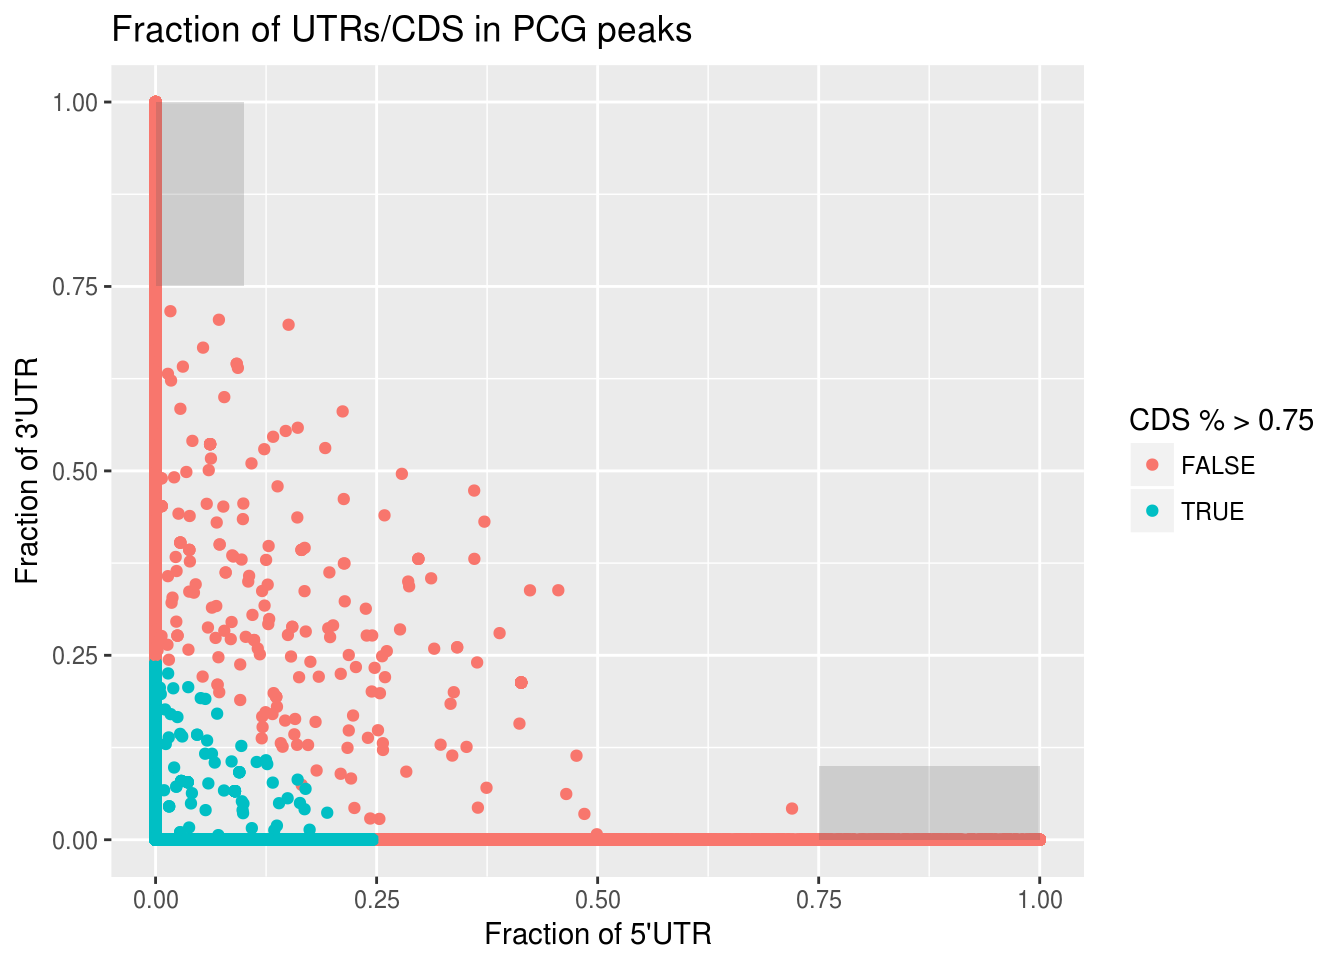
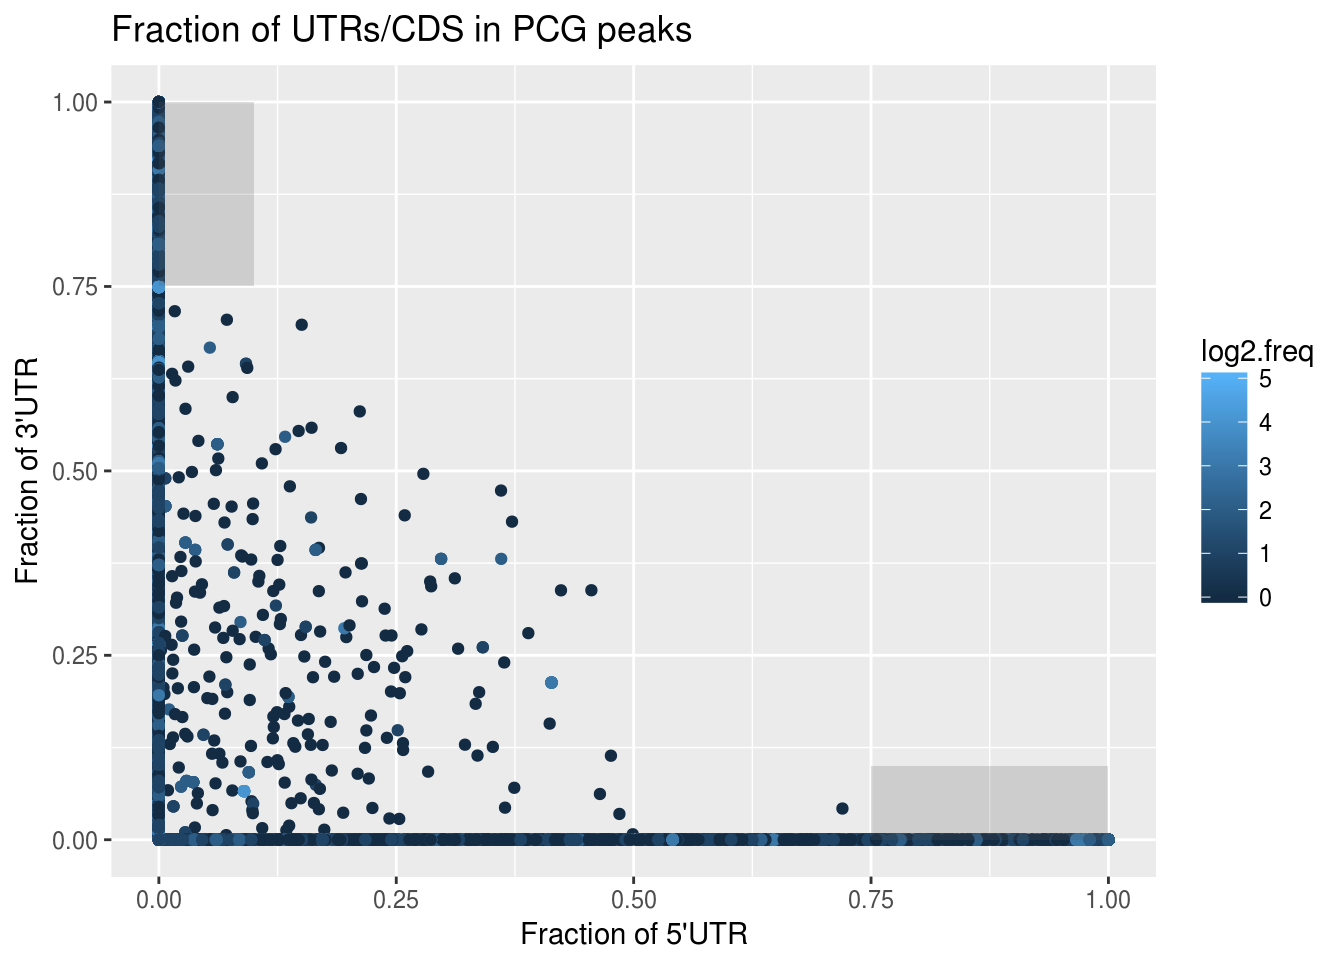
updated

diff --git a/docs/transcript_annotation.metApeakFisher_joint_peaks_18lcls.html b/docs/transcript_annotation.metApeakFisher_joint_peaks_18lcls.html
@@ -297,7 +297,7 @@ div.tocify {
 
 <h1 class="title toc-ignore">Annotating metApeakFisher_joint_peaks_18lcls</h1>
 <h4 class="author"><em>Yanyu Liang</em></h4>
-<h4 class="date"><em>27 September, 2017</em></h4>
+<h4 class="date"><em>29 September, 2017</em></h4>
 
 </div>
 
@@ -314,6 +314,7 @@ library(dplyr)</code></pre>
 <pre><code>## The following objects are masked from &#39;package:base&#39;:
 ## 
 ##     intersect, setdiff, setequal, union</code></pre>
+<pre class="r"><code>source(&#39;../code/utilities/transcript_annotation_rlib.R&#39;)</code></pre>
 </div>
 <div id="load-data" class="section level1">
 <h1><span class="header-section-number">2</span> Load Data</h1>
@@ -329,7 +330,7 @@ if(length(unique(mydat.valid$peak.id)) != length(unique(mydat$peak.id)))  {  # T
   print(&#39;warning: Some peaks do NOT locate comppletely in transcript. They are: &#39;)
   peaks.all &lt;- unique(mydat$peak.id)
   print(peaks.all[!peaks.all %in% mydat.valid$peak.id])
-}   </code></pre>
+}</code></pre>
 <pre><code>## [1] &quot;warning: Some peaks do NOT locate comppletely in transcript. They are: &quot;
 ##   [1] chr1 1615464 1615894 MIB2 2 169,30, 0,400                                                                         
 ##   [2] chr1 1616092 1623671 MIB2 3 8,107,283, 0,415,7296                                                                 
@@ -805,8 +806,9 @@ if(length(unique(mydat.valid$peak.id)) != length(unique(mydat$peak.id)))  {  # T
 </div>
 <div id="number-of-valid-transcripts-per-peak" class="section level1">
 <h1><span class="header-section-number">4</span> Number of valid transcripts per peak</h1>
-<pre class="r"><code>hit &lt;- mydat.valid$peak.id
-valid.count &lt;- data.frame(table(hit))
+<pre class="r"><code>output &lt;- countFreq(mydat.valid)
+mydat.valid.count &lt;- output$df
+valid.count &lt;- output$count
 ggplot(valid.count) + geom_histogram(aes(x = Freq), binwidth = 1) + ggtitle(&#39;# of valid transcript per peak&#39;) + scale_y_log10()</code></pre>
 <pre><code>## Warning: Transformation introduced infinite values in continuous y-axis</code></pre>
 <pre><code>## Warning: Removed 30 rows containing missing values (geom_bar).</code></pre>
@@ -814,32 +816,68 @@ ggplot(valid.count) + geom_histogram(aes(x = Freq), binwidth = 1) + ggtitle(&#39
 </div>
 <div id="do-they-locate-in-exon" class="section level1">
 <h1><span class="header-section-number">5</span> Do they locate in exon?</h1>
-<pre class="r"><code>ggplot(mydat.valid) + geom_point(aes(x = size, y = exon)) +
+<pre class="r"><code>ggplot(mydat.valid.count) + geom_jitter(aes(x = size, y = exon, color = log2.freq), width = 200) +
   geom_abline(slope = 1, intercept = 0) +
-  ggtitle(&#39;Peak size versus the size of annotated exon&#39;)</code></pre>
+  ggtitle(&#39;Peak size versus the size of annotated exon&#39;) +
+  scale_color_gradient2(low = &#39;blue&#39;, mid = &#39;white&#39;, high = &#39;red&#39;, midpoint = 2)</code></pre>
 <p><img src="transcript_annotation.metApeakFisher_joint_peaks_18lcls_files/figure-html/unnamed-chunk-5-1.png" width="672" /></p>
 </div>
 <div id="are-they-protein-coding-genes-pcgs" class="section level1">
 <h1><span class="header-section-number">6</span> Are they protein coding genes (PCGs)?</h1>
-<pre class="r"><code>ggplot(mydat.valid) +
-  geom_point(aes(x = exon, y = CDS + fiveUTR + threeUTR)) + geom_abline(slope = 1, intercept = 0) +
-  ggtitle(&#39;Annotated exon versus CDS + UTRs&#39;) + labs(y = &#39;CDS + UTRs&#39;)</code></pre>
+<pre class="r"><code>ggplot(mydat.valid.count) +
+  geom_jitter(aes(x = exon, y = CDS + fiveUTR + threeUTR, color = log2.freq), width = 200) + geom_abline(slope = 1, intercept = 0) +
+  ggtitle(&#39;Annotated exon versus CDS + UTRs&#39;) + labs(y = &#39;CDS + UTRs&#39;) +
+  scale_color_gradient2(low = &#39;blue&#39;, mid = &#39;white&#39;, high = &#39;red&#39;, midpoint = 2)</code></pre>
 <p><img src="transcript_annotation.metApeakFisher_joint_peaks_18lcls_files/figure-html/unnamed-chunk-6-1.png" width="672" /></p>
 </div>
 <div id="where-do-pcg-peaks-locate" class="section level1">
 <h1><span class="header-section-number">7</span> Where do PCG peaks locate?</h1>
 <pre class="r"><code>mydat.pcg &lt;- mydat.valid %&gt;%
   filter(CDS + threeUTR + fiveUTR != 0)
-ggplot(mydat.pcg) +
-  geom_point(aes(x = fiveUTR / size, y = threeUTR / size, color = CDS / size &gt; 0.75)) +
+output &lt;- countFreq(mydat.pcg)
+mydat.pcg.count &lt;- output$df
+ggplot(mydat.pcg.count) +
+  geom_jitter(aes(x = fiveUTR / size, y = threeUTR / size, color = log2.freq)) +
   # scale_color_gradient2(low = &#39;blue&#39;, mid = &#39;white&#39;, high = &#39;red&#39;, midpoint = 0.75,  limits=c(0, 1)) +
   ggtitle(&#39;Fraction of UTRs/CDS in PCG peaks&#39;) +
-  labs(x = &#39;Fraction of 5\&#39;UTR&#39;, y = &#39;Fraction of 3\&#39;UTR&#39;, color = &#39;CDS % &gt; 0.75&#39;) +
+  labs(x = &#39;Fraction of 5\&#39;UTR&#39;, y = &#39;Fraction of 3\&#39;UTR&#39;) +
   annotate(&quot;rect&quot;, xmin = 0.75, xmax = 1, ymin = 0, ymax = 0.1,
   alpha = .2) +
   annotate(&quot;rect&quot;, xmin = 0, xmax = 0.1, ymin = 0.75, ymax = 1,
   alpha = .2)</code></pre>
 <p><img src="transcript_annotation.metApeakFisher_joint_peaks_18lcls_files/figure-html/unnamed-chunk-7-1.png" width="672" /></p>
+</div>
+<div id="inconsistency-among-transcript-annotations" class="section level1">
+<h1><span class="header-section-number">8</span> Inconsistency among transcript annotations</h1>
+<pre class="r"><code>mydat.pcg.dist &lt;- mydat.pcg %&gt;%
+  group_by(peak.id) %&gt;%
+  summarise(distance = sd(fiveUTR/exon) + sd(threeUTR/exon)) %&gt;%
+  ungroup()
+ggplot(mydat.pcg.dist) +
+  geom_histogram(aes(x = distance)) +
+  scale_y_log10() +
+  ggtitle(&#39;total deviation of annotation 
+ in single peak 
+ within multiple transcripts&#39;)</code></pre>
+<pre><code>## `stat_bin()` using `bins = 30`. Pick better value with `binwidth`.</code></pre>
+<pre><code>## Warning: Removed 8146 rows containing non-finite values (stat_bin).</code></pre>
+<pre><code>## Warning: Transformation introduced infinite values in continuous y-axis</code></pre>
+<pre><code>## Warning: Removed 6 rows containing missing values (geom_bar).</code></pre>
+<p><img src="transcript_annotation.metApeakFisher_joint_peaks_18lcls_files/figure-html/unnamed-chunk-8-1.png" width="672" /></p>
+</div>
+<div id="stratifying-peaks" class="section level1">
+<h1><span class="header-section-number">9</span> Stratifying peaks</h1>
+<pre class="r"><code>mydat.valid.stratify &lt;- mydat.valid %&gt;%
+  mutate(type = stratifyMatch(fiveUTR, threeUTR, CDS, exon))
+mydat.valid.stratify.bypeak &lt;- mydat.valid.stratify %&gt;%
+  group_by(peak.id) %&gt;%
+  summarise(peak.type = stratifyPeak(type)) %&gt;%
+  ungroup()
+ggplot(mydat.valid.stratify.bypeak) +
+  geom_bar(aes(x = peak.type, y = ..count..)) +
+  theme(axis.text.x = element_text(angle = 45, hjust = 1)) +
+  ggtitle(&#39;Number of peak per annotation category&#39;)</code></pre>
+<p><img src="transcript_annotation.metApeakFisher_joint_peaks_18lcls_files/figure-html/unnamed-chunk-9-1.png" width="672" /></p>
 </div>
 
 
